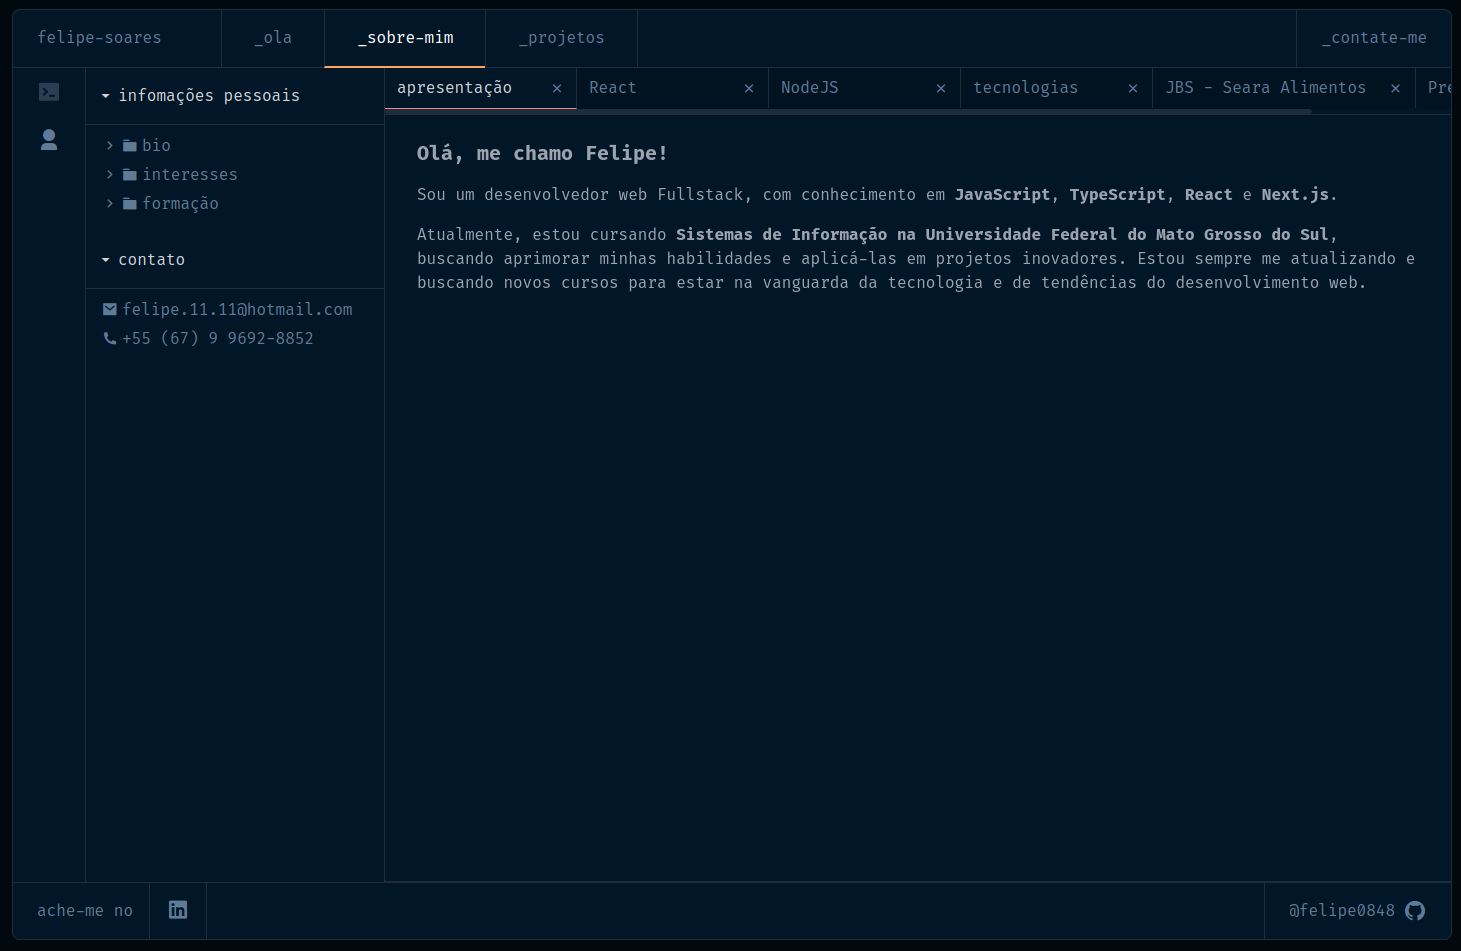
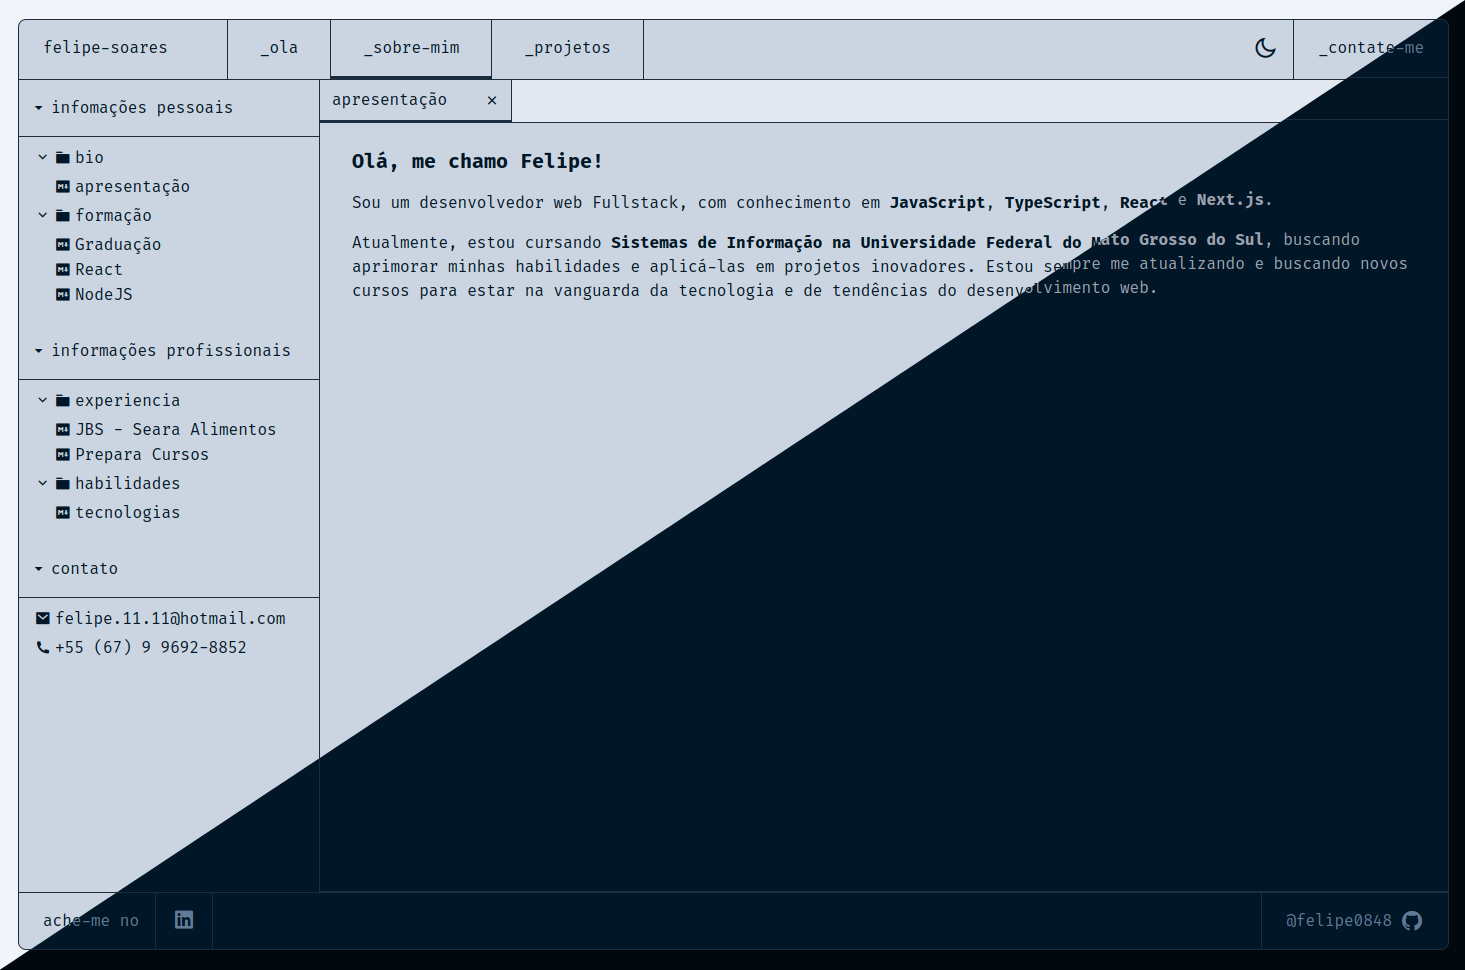
Update Readme

diff --git a/README.md b/README.md
@@ -10,7 +10,7 @@ O desafio era desenvolver um portifolio para gerenciar meus projetos com o intui
 -   [x] Exibir detalhadamente cada projeto;
 -   [x] Exibir um pouco de quem eu sou;
 -   [x] Imitar a navegação de pastas de um editor de código;
--   [ ] Adicionar alternador de tema (light mode e dark mode);
+-   [x] Adicionar alternador de tema (light mode e dark mode);
 -   [ ] Adicionnar alternador de idioma (pt-br e en-us);
 
 ## 🖥 Pré-requisitos e como rodar a aplicação/testes
